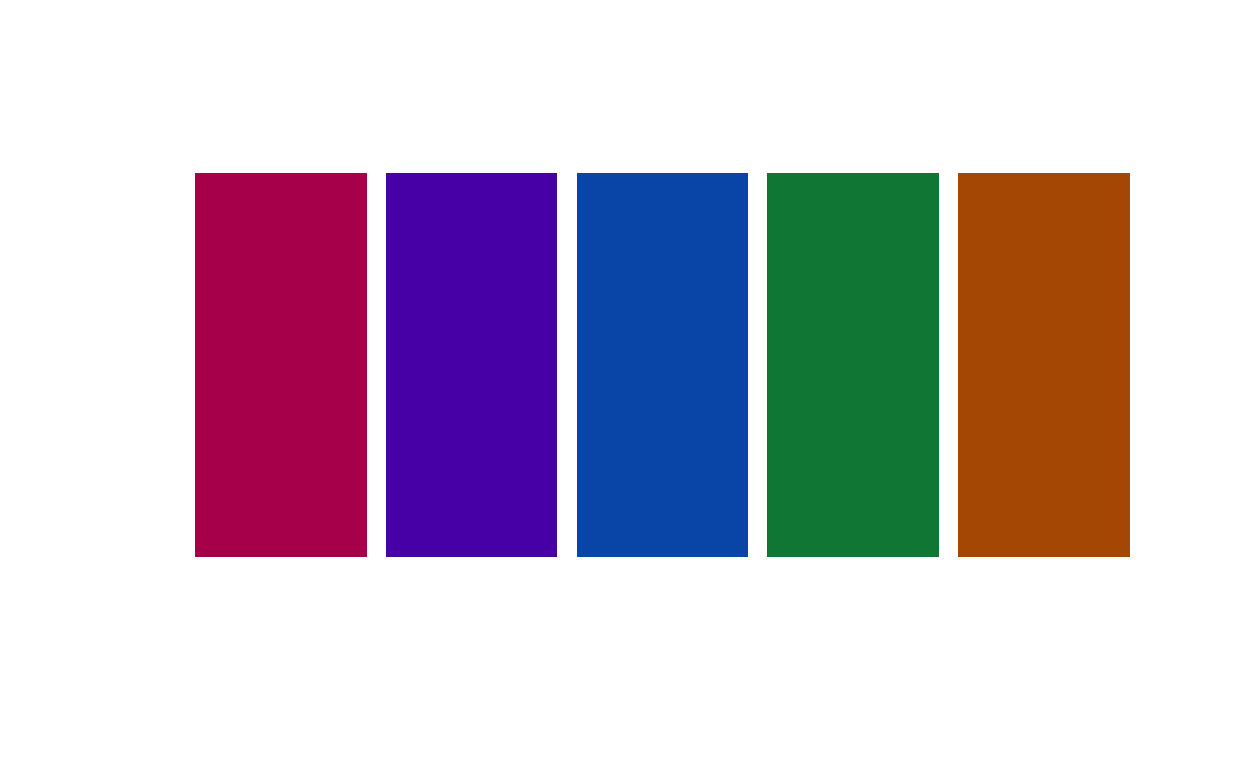
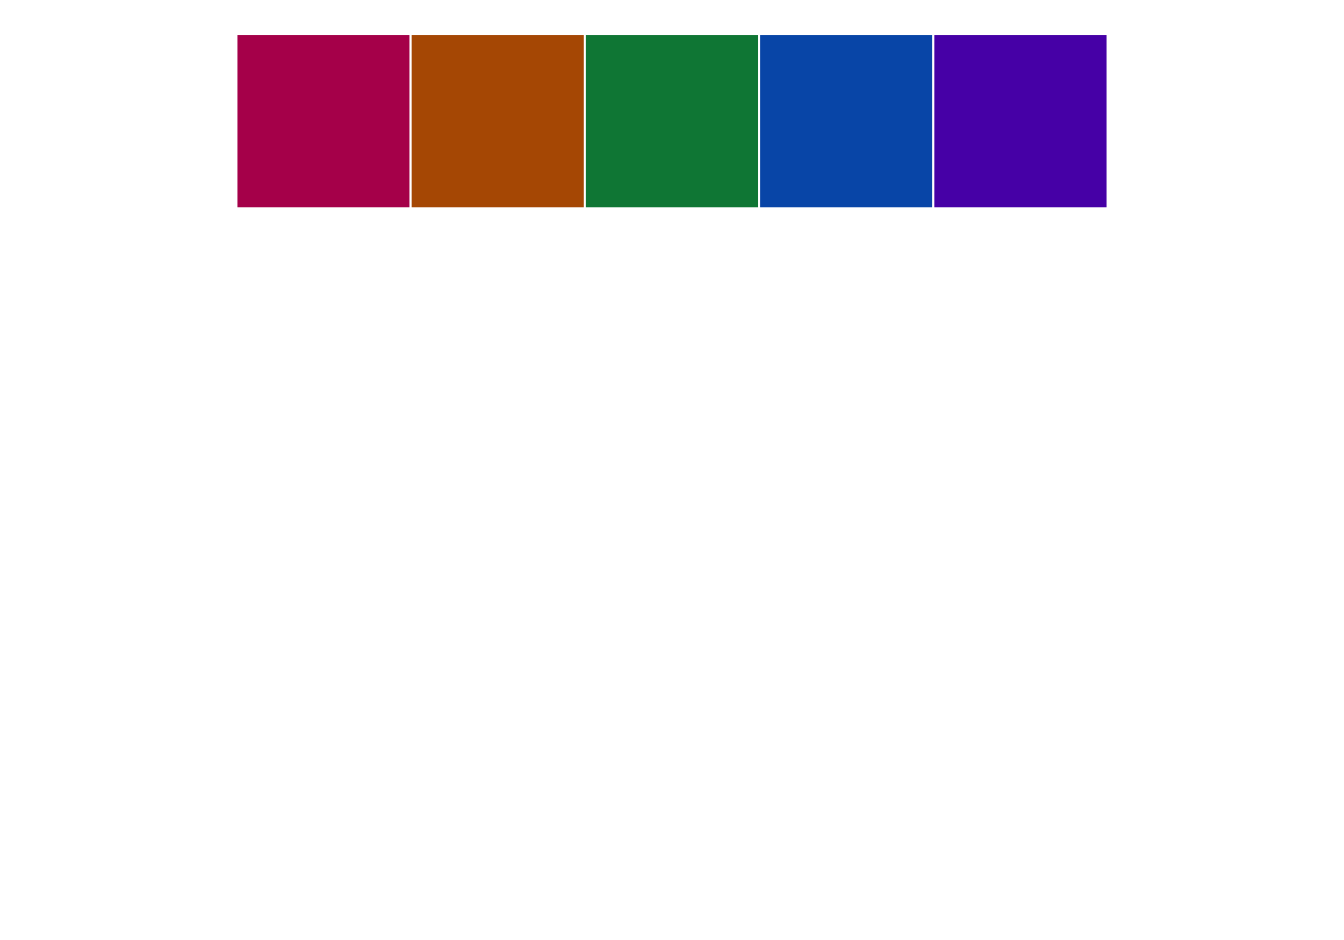
Delete superflous css in syntax post

diff --git a/_posts/2021-05-15-custom-syntax-highlighting-for-distill/custom-syntax-highlighting-for-distill.html b/_posts/2021-05-15-custom-syntax-highlighting-for-distill/custom-syntax-highlighting-for-distill.html
@@ -1569,51 +1569,6 @@ code span.wa { color: #5e5e5e; font-style: italic; } /* Warning */
 <div class="layout-chunk" data-layout="l-body">
 
 </div>
-<div class="layout-chunk" data-layout="l-body">
-<style type="text/css">
-.arrow-red {
-  background-color: #AD0000;
-  color: white; 
-  padding: 3px;
-}
-
-.arrow-brown {
-  background-color: #8F5902;
-  color: white; 
-  padding: 3px;
-}
-
-.arrow-green {
-  background-color: #20794D;
-  color: white; 
-  padding: 3px;
-}
-
-.arrow-blue {
-  background-color: #007BA5;
-  color: white; 
-  padding: 3px;
-}
-
-.arrow-purple {
-  background-color: #4758AB;
-  color: white; 
-  padding: 3px;
-}
-
-.arrow-grey {
-  background-color: #5E5E5E;
-  color: white; 
-  padding: 3px;
-}
-
-.arrow-black {
-  background-color: #111111;
-  color: white; 
-  padding: 3px;
-}
-</style>
-</div>
 <p>There are 29 types of <code>text-styles</code> in the theme, of which:</p>
 <ul>
 <li>8 are assigned a grey, <span style="background-color: #5E5E5E; color: white; padding:3px">#5E5E5E</span>, things like <code>Comment</code> and <code>Documentation</code></li>
@@ -1713,12 +1668,18 @@ Figure 8: The palette I settled on for my syntax highlighting scheme.
 </div>
 <div class="layout-chunk" data-layout="l-body">
 <div class="sourceCode">
-<pre class="sourceCode r"><code class="sourceCode r"><span class='fu'><a href='https://rdrr.io/r/graphics/par.html'>par</a></span><span class='op'>(</span>mar <span class='op'>=</span> <span class='fu'><a href='https://rdrr.io/r/base/c.html'>c</a></span><span class='op'>(</span><span class='fl'>4</span>, <span class='fl'>4</span>, <span class='fl'>0.1</span>, <span class='fl'>0.1</span><span class='op'>)</span><span class='op'>)</span>  
-<span class='kw'><a href='https://rdrr.io/r/base/library.html'>library</a></span><span class='op'>(</span><span class='va'><a href='https://scales.r-lib.org'>scales</a></span><span class='op'>)</span>
-<span class='fu'>scales</span><span class='fu'>::</span><span class='fu'><a href='https://scales.r-lib.org/reference/show_col.html'>show_col</a></span><span class='op'>(</span><span class='fu'><a href='https://rdrr.io/r/base/rev.html'>rev</a></span><span class='op'>(</span><span class='va'>ek_highlight_colours</span><span class='op'>)</span>, ncol <span class='op'>=</span> <span class='fl'>5</span>, labels <span class='op'>=</span> <span class='cn'>TRUE</span>, borders <span class='op'>=</span> <span class='st'>"white"</span>, cex_label <span class='op'>=</span> <span class='fl'>0.8</span><span class='op'>)</span>
+<pre class="sourceCode r"><code class="sourceCode r"><span class='kw'><a href='https://rdrr.io/r/base/library.html'>library</a></span><span class='op'>(</span><span class='va'><a href='https://scales.r-lib.org'>scales</a></span><span class='op'>)</span>
+<span class='fu'>scales</span><span class='fu'>::</span><span class='fu'><a href='https://scales.r-lib.org/reference/show_col.html'>show_col</a></span><span class='op'>(</span><span class='fu'><a href='https://rdrr.io/r/base/rev.html'>rev</a></span><span class='op'>(</span><span class='va'>ek_highlight_colours</span><span class='op'>)</span>, ncol <span class='op'>=</span> <span class='fl'>5</span>, borders <span class='op'>=</span> <span class='st'>"white"</span>, labels <span class='op'>=</span> <span class='cn'>FALSE</span><span class='op'>)</span> 
 </code></pre>
 </div>
-<p><img src="custom-syntax-highlighting-for-distill_files/figure-html5/unnamed-chunk-4-1.png" width="624" /></p>
+<p><img src="custom-syntax-highlighting-for-distill_files/figure-html5/unnamed-chunk-3-1.png" width="672" /></p>
+</div>
+<div class="layout-chunk" data-layout="l-body">
+<div class="sourceCode">
+<pre class="sourceCode r"><code class="sourceCode r"><span class='kw'><a href='https://rdrr.io/r/base/library.html'>library</a></span><span class='op'>(</span><span class='va'><a href='https://github.com/EmilHvitfeldt/prismatic'>prismatic</a></span><span class='op'>)</span>
+<span class='fu'><a href='https://rdrr.io/pkg/prismatic/man/color.html'>color</a></span><span class='op'>(</span><span class='va'>ek_highlight_colours</span><span class='op'>)</span> <span class='op'>%&gt;%</span> <span class='fu'><a href='https://rdrr.io/r/graphics/plot.default.html'>plot</a></span><span class='op'>(</span><span class='op'>)</span>
+</code></pre>
+</div>
 </div>
 <p>I’m happy with that, and that’s the syntax highlighting scheme I’ve adopted throughout this site, despite the fact that the palette now doesn’t actually include the pink that I set out to build my scheme around! However, because of the process I’ve followed, the pink that is in the palette does tones well with the brighter pink and I think my site still has a consistent look. In the end, it was more important that all the colours in the palette looked consistent together and met accessibility guidelines.</p>
 <p>I am only just beginning to learn about web accessibility, and I know my site does not yet meet all best practices, but I’m committed to improving in this area. I first became aware of the issue of web accessibility because I follow <a href="https://twitter.com/spcanelon">Silvia Canelón on twitter</a> and I highly recommend you do the same! The <a href="https://www.a11yproject.com">a11y project</a> and <a href="https://webaim.org">WebAIM</a> are great places to learn more.</p>
@@ -1726,6 +1687,15 @@ Figure 8: The palette I settled on for my syntax highlighting scheme.
 <p>Some visual impairments require a high colour contrast between text and background colour in order to be able to read content on the web. Another class of visual impairment worth paying attention to when designing palettes in that of colour blindness. (The WCAG note that all users should be able to access information that is conveyed by colour differences).</p>
 <p><a href="https://www.njtierney.com">Nick Tierney</a> has some excellent resources about colour and colourblindness and R packages for accessing these. <a href="https://njt-monash-colour.netlify.app/#1">These comprehensive slides</a> cover what colour is and how we perceive it, colourblindness, how to check how palettes/plots appear to those with different types of colourblindness, the HCL space, the {colorspace} package and how to create your own palettes. He also has a <a href="https://www.njtierney.com/post/2020/10/15/assess-colour/">short blog post</a> on quickly assessing colour palettes to ensure they’re colourblind-friendly.</p>
 <p>As recommended in the above posts, I use the <a href="https://emilhvitfeldt.github.io/prismatic/">{prismatic}</a> package by <a href="https://www.hvitfeldt.me">Emil Hvitfeldt</a> to check how my syntax highlighting palette appears to those with different types of colourblindness:</p>
+<div class="layout-chunk" data-layout="l-body">
+<div class="sourceCode">
+<pre class="sourceCode r"><code class="sourceCode r"><span class='kw'><a href='https://rdrr.io/r/base/library.html'>library</a></span><span class='op'>(</span><span class='va'><a href='https://github.com/EmilHvitfeldt/prismatic'>prismatic</a></span><span class='op'>)</span>
+<span class='va'>ek_highlight_colours</span> <span class='op'>&lt;-</span> <span class='fu'><a href='https://rdrr.io/r/base/c.html'>c</a></span><span class='op'>(</span><span class='st'>"#5A00B5"</span>, <span class='st'>"#005BB6"</span>, <span class='st'>"#008643"</span>, <span class='st'>"#B65B00"</span>, <span class='st'>"#B6005B"</span><span class='op'>)</span>
+<span class='fu'><a href='https://rdrr.io/pkg/prismatic/man/check_color_blindness.html'>check_color_blindness</a></span><span class='op'>(</span><span class='va'>ek_highlight_colours</span><span class='op'>)</span>
+</code></pre>
+</div>
+<p><img src="custom-syntax-highlighting-for-distill_files/figure-html5/unnamed-chunk-5-1.png" width="624" /></p>
+</div>
 <p>Thankfully, for all three main types of colourblindess, the five colours in the palette are distinguishable, so no further adjustments are necessary.</p>
 <h3 id="an-r-based-alternative">An R-based alternative</h3>
 <div class="layout-chunk" data-layout="l-body">

diff --git a/_site/posts/2021-05-15-custom-syntax-highlighting-for-distill/index.html b/_site/posts/2021-05-15-custom-syntax-highlighting-for-distill/index.html
@@ -2500,51 +2500,6 @@ gtag('config', 'UA-101621242-1');
 <div class="layout-chunk" data-layout="l-body">
 
 </div>
-<div class="layout-chunk" data-layout="l-body">
-<style type="text/css">
-.arrow-red {
-  background-color: #AD0000;
-  color: white; 
-  padding: 3px;
-}
-
-.arrow-brown {
-  background-color: #8F5902;
-  color: white; 
-  padding: 3px;
-}
-
-.arrow-green {
-  background-color: #20794D;
-  color: white; 
-  padding: 3px;
-}
-
-.arrow-blue {
-  background-color: #007BA5;
-  color: white; 
-  padding: 3px;
-}
-
-.arrow-purple {
-  background-color: #4758AB;
-  color: white; 
-  padding: 3px;
-}
-
-.arrow-grey {
-  background-color: #5E5E5E;
-  color: white; 
-  padding: 3px;
-}
-
-.arrow-black {
-  background-color: #111111;
-  color: white; 
-  padding: 3px;
-}
-</style>
-</div>
 <p>There are 29 types of <code>text-styles</code> in the theme, of which:</p>
 <ul>
 <li>8 are assigned a grey, <span style="background-color: #5E5E5E; color: white; padding:3px">#5E5E5E</span>, things like <code>Comment</code> and <code>Documentation</code></li>
@@ -2644,12 +2599,18 @@ Figure 8: The palette I settled on for my syntax highlighting scheme.
 </div>
 <div class="layout-chunk" data-layout="l-body">
 <div class="sourceCode">
-<pre class="sourceCode r"><code class="sourceCode r"><span class='fu'><a href='https://rdrr.io/r/graphics/par.html'>par</a></span><span class='op'>(</span>mar <span class='op'>=</span> <span class='fu'><a href='https://rdrr.io/r/base/c.html'>c</a></span><span class='op'>(</span><span class='fl'>4</span>, <span class='fl'>4</span>, <span class='fl'>0.1</span>, <span class='fl'>0.1</span><span class='op'>)</span><span class='op'>)</span>  
-<span class='kw'><a href='https://rdrr.io/r/base/library.html'>library</a></span><span class='op'>(</span><span class='va'><a href='https://scales.r-lib.org'>scales</a></span><span class='op'>)</span>
-<span class='fu'>scales</span><span class='fu'>::</span><span class='fu'><a href='https://scales.r-lib.org/reference/show_col.html'>show_col</a></span><span class='op'>(</span><span class='fu'><a href='https://rdrr.io/r/base/rev.html'>rev</a></span><span class='op'>(</span><span class='va'>ek_highlight_colours</span><span class='op'>)</span>, ncol <span class='op'>=</span> <span class='fl'>5</span>, labels <span class='op'>=</span> <span class='cn'>TRUE</span>, borders <span class='op'>=</span> <span class='st'>"white"</span>, cex_label <span class='op'>=</span> <span class='fl'>0.8</span><span class='op'>)</span>
+<pre class="sourceCode r"><code class="sourceCode r"><span class='kw'><a href='https://rdrr.io/r/base/library.html'>library</a></span><span class='op'>(</span><span class='va'><a href='https://scales.r-lib.org'>scales</a></span><span class='op'>)</span>
+<span class='fu'>scales</span><span class='fu'>::</span><span class='fu'><a href='https://scales.r-lib.org/reference/show_col.html'>show_col</a></span><span class='op'>(</span><span class='fu'><a href='https://rdrr.io/r/base/rev.html'>rev</a></span><span class='op'>(</span><span class='va'>ek_highlight_colours</span><span class='op'>)</span>, ncol <span class='op'>=</span> <span class='fl'>5</span>, borders <span class='op'>=</span> <span class='st'>"white"</span>, labels <span class='op'>=</span> <span class='cn'>FALSE</span><span class='op'>)</span> 
 </code></pre>
 </div>
-<p><img src="custom-syntax-highlighting-for-distill_files/figure-html5/unnamed-chunk-4-1.png" width="624" /></p>
+<p><img src="custom-syntax-highlighting-for-distill_files/figure-html5/unnamed-chunk-3-1.png" width="672" /></p>
+</div>
+<div class="layout-chunk" data-layout="l-body">
+<div class="sourceCode">
+<pre class="sourceCode r"><code class="sourceCode r"><span class='kw'><a href='https://rdrr.io/r/base/library.html'>library</a></span><span class='op'>(</span><span class='va'><a href='https://github.com/EmilHvitfeldt/prismatic'>prismatic</a></span><span class='op'>)</span>
+<span class='fu'><a href='https://rdrr.io/pkg/prismatic/man/color.html'>color</a></span><span class='op'>(</span><span class='va'>ek_highlight_colours</span><span class='op'>)</span> <span class='op'>%&gt;%</span> <span class='fu'><a href='https://rdrr.io/r/graphics/plot.default.html'>plot</a></span><span class='op'>(</span><span class='op'>)</span>
+</code></pre>
+</div>
 </div>
 <p>I’m happy with that, and that’s the syntax highlighting scheme I’ve adopted throughout this site, despite the fact that the palette now doesn’t actually include the pink that I set out to build my scheme around! However, because of the process I’ve followed, the pink that is in the palette does tones well with the brighter pink and I think my site still has a consistent look. In the end, it was more important that all the colours in the palette looked consistent together and met accessibility guidelines.</p>
 <p>I am only just beginning to learn about web accessibility, and I know my site does not yet meet all best practices, but I’m committed to improving in this area. I first became aware of the issue of web accessibility because I follow <a href="https://twitter.com/spcanelon">Silvia Canelón on twitter</a> and I highly recommend you do the same! The <a href="https://www.a11yproject.com">a11y project</a> and <a href="https://webaim.org">WebAIM</a> are great places to learn more.</p>
@@ -2657,6 +2618,15 @@ Figure 8: The palette I settled on for my syntax highlighting scheme.
 <p>Some visual impairments require a high colour contrast between text and background colour in order to be able to read content on the web. Another class of visual impairment worth paying attention to when designing palettes in that of colour blindness. (The WCAG note that all users should be able to access information that is conveyed by colour differences).</p>
 <p><a href="https://www.njtierney.com">Nick Tierney</a> has some excellent resources about colour and colourblindness and R packages for accessing these. <a href="https://njt-monash-colour.netlify.app/#1">These comprehensive slides</a> cover what colour is and how we perceive it, colourblindness, how to check how palettes/plots appear to those with different types of colourblindness, the HCL space, the {colorspace} package and how to create your own palettes. He also has a <a href="https://www.njtierney.com/post/2020/10/15/assess-colour/">short blog post</a> on quickly assessing colour palettes to ensure they’re colourblind-friendly.</p>
 <p>As recommended in the above posts, I use the <a href="https://emilhvitfeldt.github.io/prismatic/">{prismatic}</a> package by <a href="https://www.hvitfeldt.me">Emil Hvitfeldt</a> to check how my syntax highlighting palette appears to those with different types of colourblindness:</p>
+<div class="layout-chunk" data-layout="l-body">
+<div class="sourceCode">
+<pre class="sourceCode r"><code class="sourceCode r"><span class='kw'><a href='https://rdrr.io/r/base/library.html'>library</a></span><span class='op'>(</span><span class='va'><a href='https://github.com/EmilHvitfeldt/prismatic'>prismatic</a></span><span class='op'>)</span>
+<span class='va'>ek_highlight_colours</span> <span class='op'>&lt;-</span> <span class='fu'><a href='https://rdrr.io/r/base/c.html'>c</a></span><span class='op'>(</span><span class='st'>"#5A00B5"</span>, <span class='st'>"#005BB6"</span>, <span class='st'>"#008643"</span>, <span class='st'>"#B65B00"</span>, <span class='st'>"#B6005B"</span><span class='op'>)</span>
+<span class='fu'><a href='https://rdrr.io/pkg/prismatic/man/check_color_blindness.html'>check_color_blindness</a></span><span class='op'>(</span><span class='va'>ek_highlight_colours</span><span class='op'>)</span>
+</code></pre>
+</div>
+<p><img src="custom-syntax-highlighting-for-distill_files/figure-html5/unnamed-chunk-5-1.png" width="624" /></p>
+</div>
 <p>Thankfully, for all three main types of colourblindess, the five colours in the palette are distinguishable, so no further adjustments are necessary.</p>
 <h3 id="an-r-based-alternative">An R-based alternative</h3>
 <div class="layout-chunk" data-layout="l-body">
